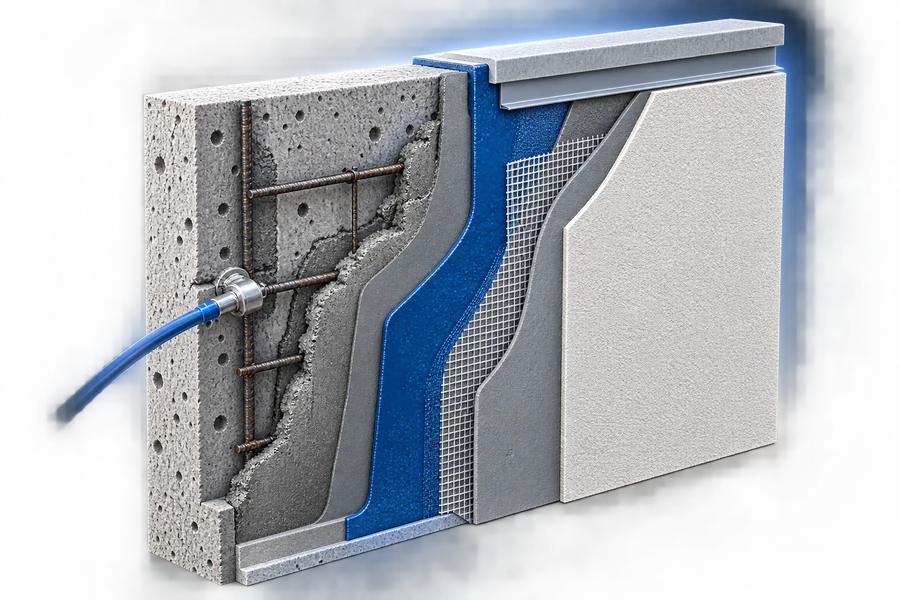
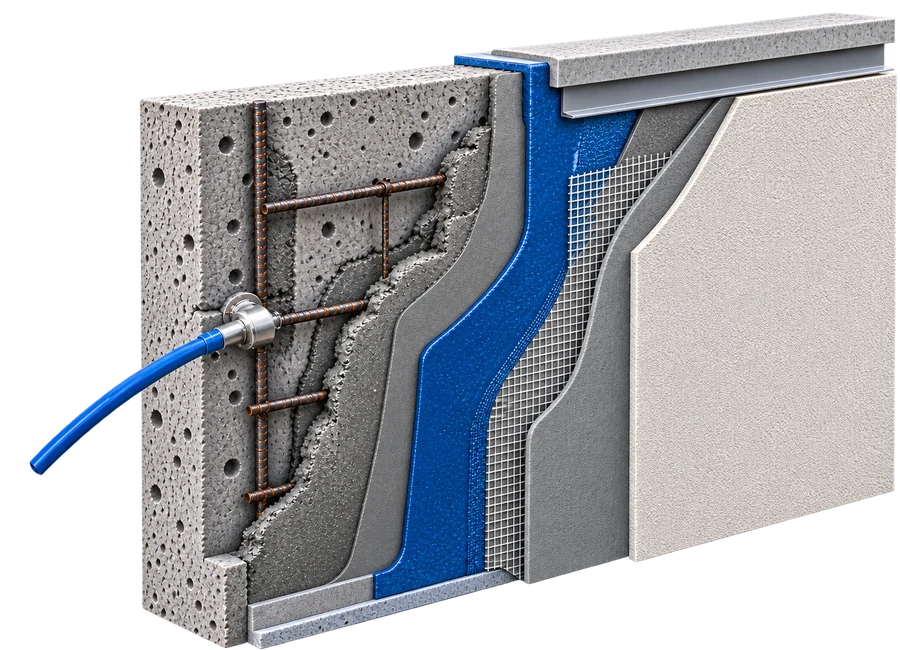
Fix: reemplazar imagen de muro en el selector con render sin halo

diff --git a/README.md b/README.md
@@ -40,6 +40,20 @@ npm run start
 `npm run build` debe pasar sin errores antes de cualquier push (regla
 estándar de BLITZ).
 
+## Fix — imagen de "Muro" en el Selector
+
+La imagen original de `muro.webp` traía una sombra/resplandor de fondo mal
+recortado en el render (23.6% de píxeles semi-transparentes, contra menos
+del 1.3% en las otras 4 imágenes del selector) — se veía como un halo
+irregular alrededor del objeto. Se probaron correcciones automáticas
+(umbral de alfa, separación por color, separación por textura/varianza
+local) que redujeron el problema pero no lo eliminaron del todo: quedaba
+un resto delgado de sombra pegado al borde superior, porque esa sombra
+tenía opacidad alta y colores similares a la membrana azul real del
+sistema, no separable de forma confiable. El cliente proporcionó un
+render nuevo con transparencia limpia (0.9% semi-transparente, en línea
+con el resto) y se reemplazó directamente.
+
 ## Sección "Selector de sistema" — reconstruida sobre referencia visual (2 pasos)
 
 Rediseño completo: de un único paso (elegir superficie, con "Reparación
